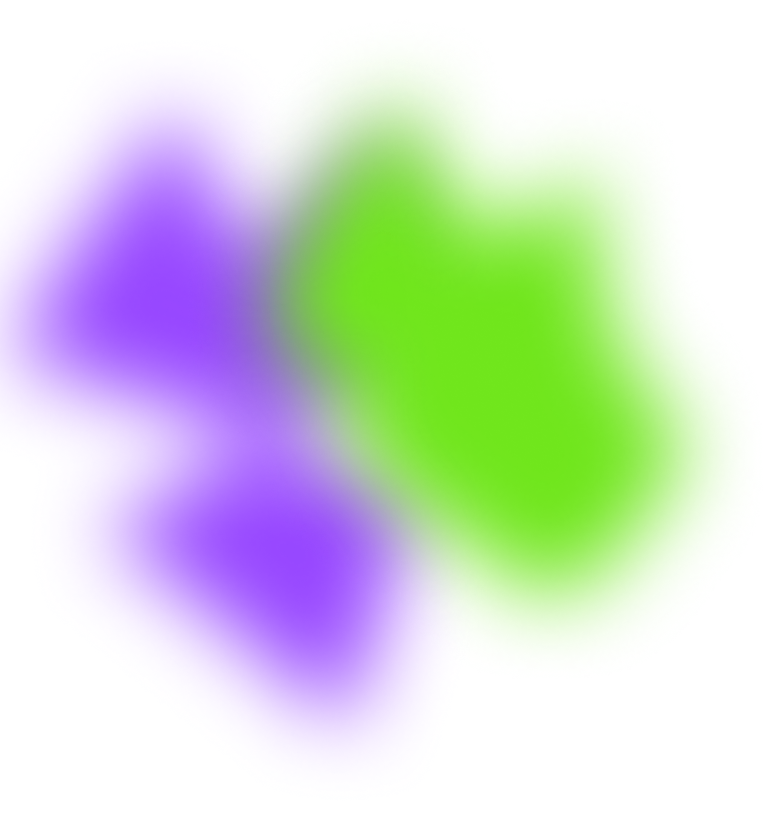
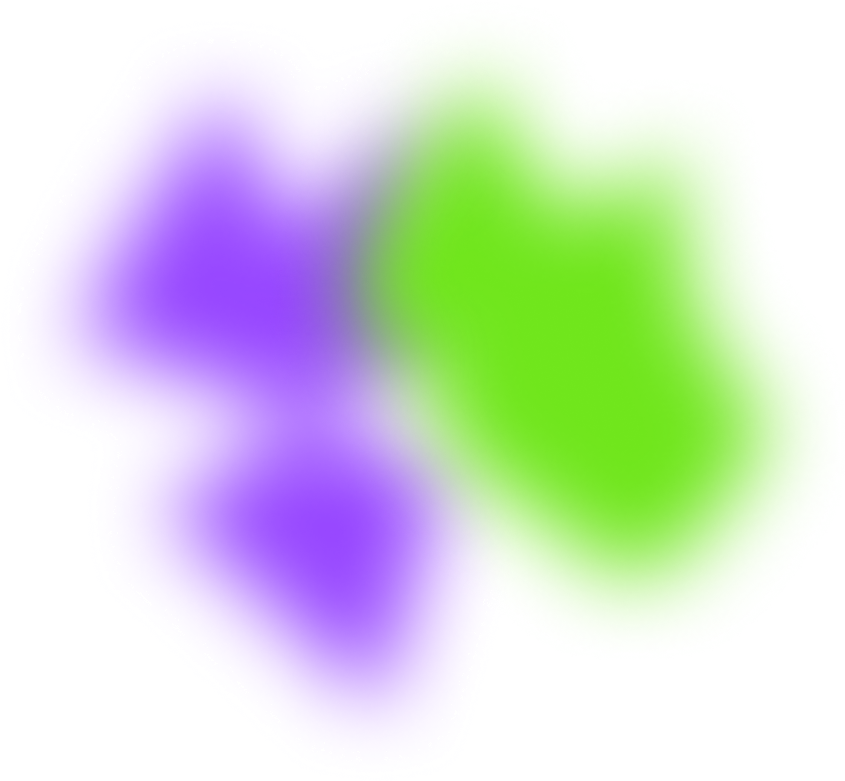
continued with the design of the above the fold section. Added the about me component into the project. Added some pictures.

Changed region(s): [[0.2481, 0.0922, 0.6822, 0.7375], [0.0, 0.1536, 0.3101, 0.7375], [0.7132, 0.1844, 0.9302, 0.7682]]

diff --git a/portfolio/src/app/above-the-fold/above-the-fold.component.scss b/portfolio/src/app/above-the-fold/above-the-fold.component.scss
@@ -1,20 +1,42 @@
 section {
     height: 100vh;
     display: flex;
-    justify-content: space-around;
+    justify-content: center;
+    gap: 120px;
     align-items: center;
     background-color: #141D2F;
     color: white;
+    position: absolute;
+    top: 0;
+    left: 0;
+    right: 0;
+}
 
-    >div {
-        >img {
-            height: 800px;
-            object-fit: contain;
-            background-image: url('./../../assets/image.png');
-            background-position: center;
-            border: none;
-        }
-    }
+.name_picture {
+    position: relative;
+    width: 400px;
+    height: 600px;
+}
+
+.img-bottom {
+    position: absolute;
+    top: 0;
+    left: 0;
+    width: 550px;
+}
+
+.img-top {
+    position: relative;
+    top: 0;
+    left: 0;
+    width: 700px;
+    height: 700px;
+    z-index: 2;
+}
+
+.img-bottom {
+    z-index: 3;
+    border-radius: 50px;
 }
 
 .name_content {
@@ -33,23 +55,55 @@ section {
         color: white;
         font-size: 22px;
         border: none;
-        transition: 0.2s ease-in-out;
+        transition: 0.1s ease-in-out;
+        z-index: 1;
 
         &:hover {
-            background-color: rgb(140, 0, 255);
-            border-color: rgb(140, 0, 255);
-            transform: scale(1.25);
+            background-color: #9747FF;
+            border-color: #9747FF;
+            transform: scale(1.15);
         }
     }
 }
 
 .name_atf {
     display: flex;
-    flex-direction: row;
     justify-content: center;
     align-items: center;
 }
 
+.name_whoWhat {
+    display: flex;
+    flex-direction: column;
+    justify-content: center;
+    line-height: 120%;
+}
+
 .name_iam {
     transform: rotate(-90deg);
+    line-height: 120%;
+    font-size: 64px;
+    letter-spacing: 0%;
+    width: 152px;
+    height: 63px;
+    padding-left: 20px;
+}
+
+.background_atf {
+    width: 100%;
+    position: absolute;
+    top: 290px;
+    left: 0;
+    right: 0;
+    bottom: 0;
+    z-index: 1;
+}
+
+.scroll_down_text {
+    transform: rotate(90deg);
+    z-index: 1;
+    position: absolute;
+    right: 100px;
+    top: 900px;
+    font-size: 30px;
 }

diff --git a/portfolio/src/app/above-the-fold/above-the-fold.component.html b/portfolio/src/app/above-the-fold/above-the-fold.component.html
@@ -1,18 +1,24 @@
 <section>
-    <div>
-        <img src="../../assets/man.png" alt="Bild">
+    <div class="name_picture">
+        <img class="img-bottom" src="../../assets/self.png" alt="Bild">
+        <img class="img-top" src="../../assets/image.png" alt="">
     </div>
+    <img class="background_atf" src="../../assets/background_atf.png" alt="">
     <div class="name_content">
         <div>
             <div class="name_atf">
                 <div class="name_iam">I am </div>
-                <div>Alkan Tetik <br>
-                    <div style="color:rgb(167, 108, 223)">Frontend Developer</div>
+                <div class="name_whoWhat">
+                    <div style="font-size: 90px; font-weight: 700;">Alkan Tetik</div>
+                    <div style="color:#9747FF; font-size: 58px; font-weight: 400;">FRONTEND DEVELOPER</div>
                 </div>
             </div>
         </div>
         <button>
             Let's talk!
         </button>
+    </div>
+    <div class="scroll_down_container">
+        <div class='scroll_down_text'>Scroll down <img style="transform: rotate(270deg); z-index: 1;" src="../../assets/Vector.png" alt=""></div>
     </div>
 </section>

diff --git a/portfolio/src/app/app.component.ts b/portfolio/src/app/app.component.ts
@@ -2,10 +2,12 @@ import { Component } from '@angular/core';
 import { RouterOutlet } from '@angular/router';
 import { AboveTheFoldComponent } from "./above-the-fold/above-the-fold.component";
 import { HeaderComponent } from "./header/header.component";
+import { AboutMeComponent } from "./about-me/about-me.component";
+
 
 @Component({
   selector: 'app-root',
-  imports: [RouterOutlet, AboveTheFoldComponent, HeaderComponent],
+  imports: [RouterOutlet, AboveTheFoldComponent, HeaderComponent, AboutMeComponent],
   templateUrl: './app.component.html',
   styleUrl: './app.component.scss'
 })

diff --git a/portfolio/src/app/header/header.component.scss b/portfolio/src/app/header/header.component.scss
@@ -8,6 +8,7 @@ section {
     top: 0;
     left: 0;
     right: 0;
+    z-index: 4;
 }
 
 .navbar {
@@ -39,7 +40,7 @@ section {
 
         >.de_translate {
             cursor: pointer;
-            padding: 5px 8px;
+            padding: 3px 8px;
             color: white;
             border: 1px solid #70E61C;
             border-radius: 10px;
@@ -54,7 +55,7 @@ section {
 
         >.en_translate {
             cursor: pointer;
-            padding: 5px 8px;
+            padding: 3px 8px;
             color: white;
             border: none;
             border-radius: 10px;

diff --git a/portfolio/src/app/about-me/about-me.component.ts b/portfolio/src/app/about-me/about-me.component.ts
@@ -1,0 +1,11 @@
+import { Component } from '@angular/core';
+
+@Component({
+  selector: 'app-about-me',
+  imports: [],
+  templateUrl: './about-me.component.html',
+  styleUrl: './about-me.component.scss'
+})
+export class AboutMeComponent {
+
+}

diff --git a/portfolio/src/app/about-me/about-me.component.scss b/portfolio/src/app/about-me/about-me.component.scss
@@ -1,0 +1,7 @@
+// section {
+//     position: relative;
+//     top: 900px;
+//     height: 100vh;
+//     width: 100%;
+//     background-color: #141D2F;
+// }

diff --git a/portfolio/src/app/app.component.html b/portfolio/src/app/app.component.html
@@ -1,4 +1,5 @@
 <router-outlet />
 <app-header></app-header>
 <app-above-the-fold></app-above-the-fold>
+<app-about-me></app-about-me>
 

diff --git a/portfolio/src/app/about-me/about-me.component.html b/portfolio/src/app/about-me/about-me.component.html
@@ -1,0 +1,3 @@
+<section>
+    <div style="z-index: 5; padding-top: 800px; color: rgb(255, 255, 255);">ssss</div>
+</section>

diff --git a/portfolio/src/styles.scss b/portfolio/src/styles.scss
@@ -2,4 +2,5 @@
 * {
     margin: 0;
      font-family: "Poppins", sans-serif;
+    //  background-color: #141D2F;
 }
